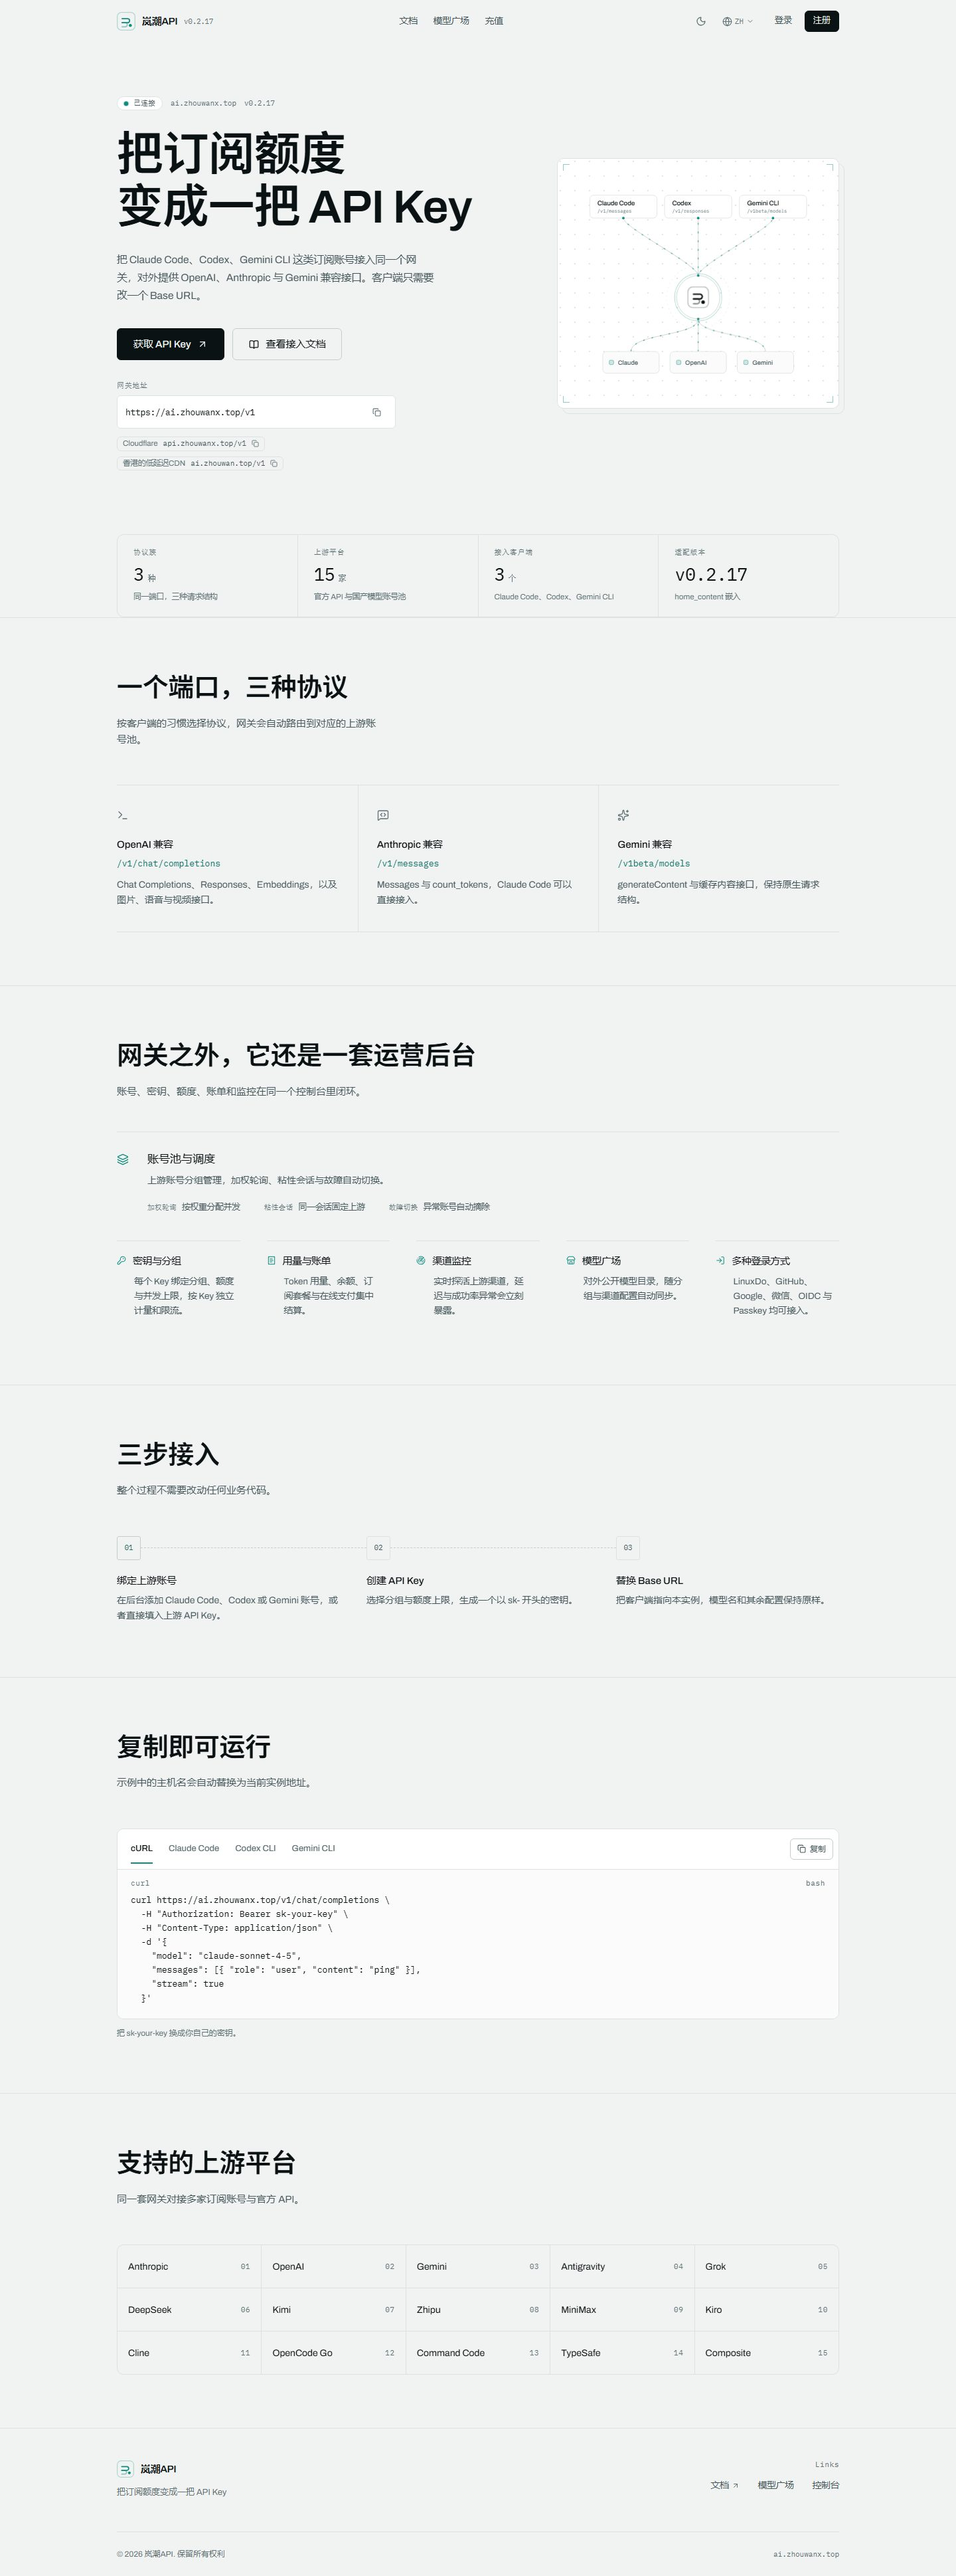
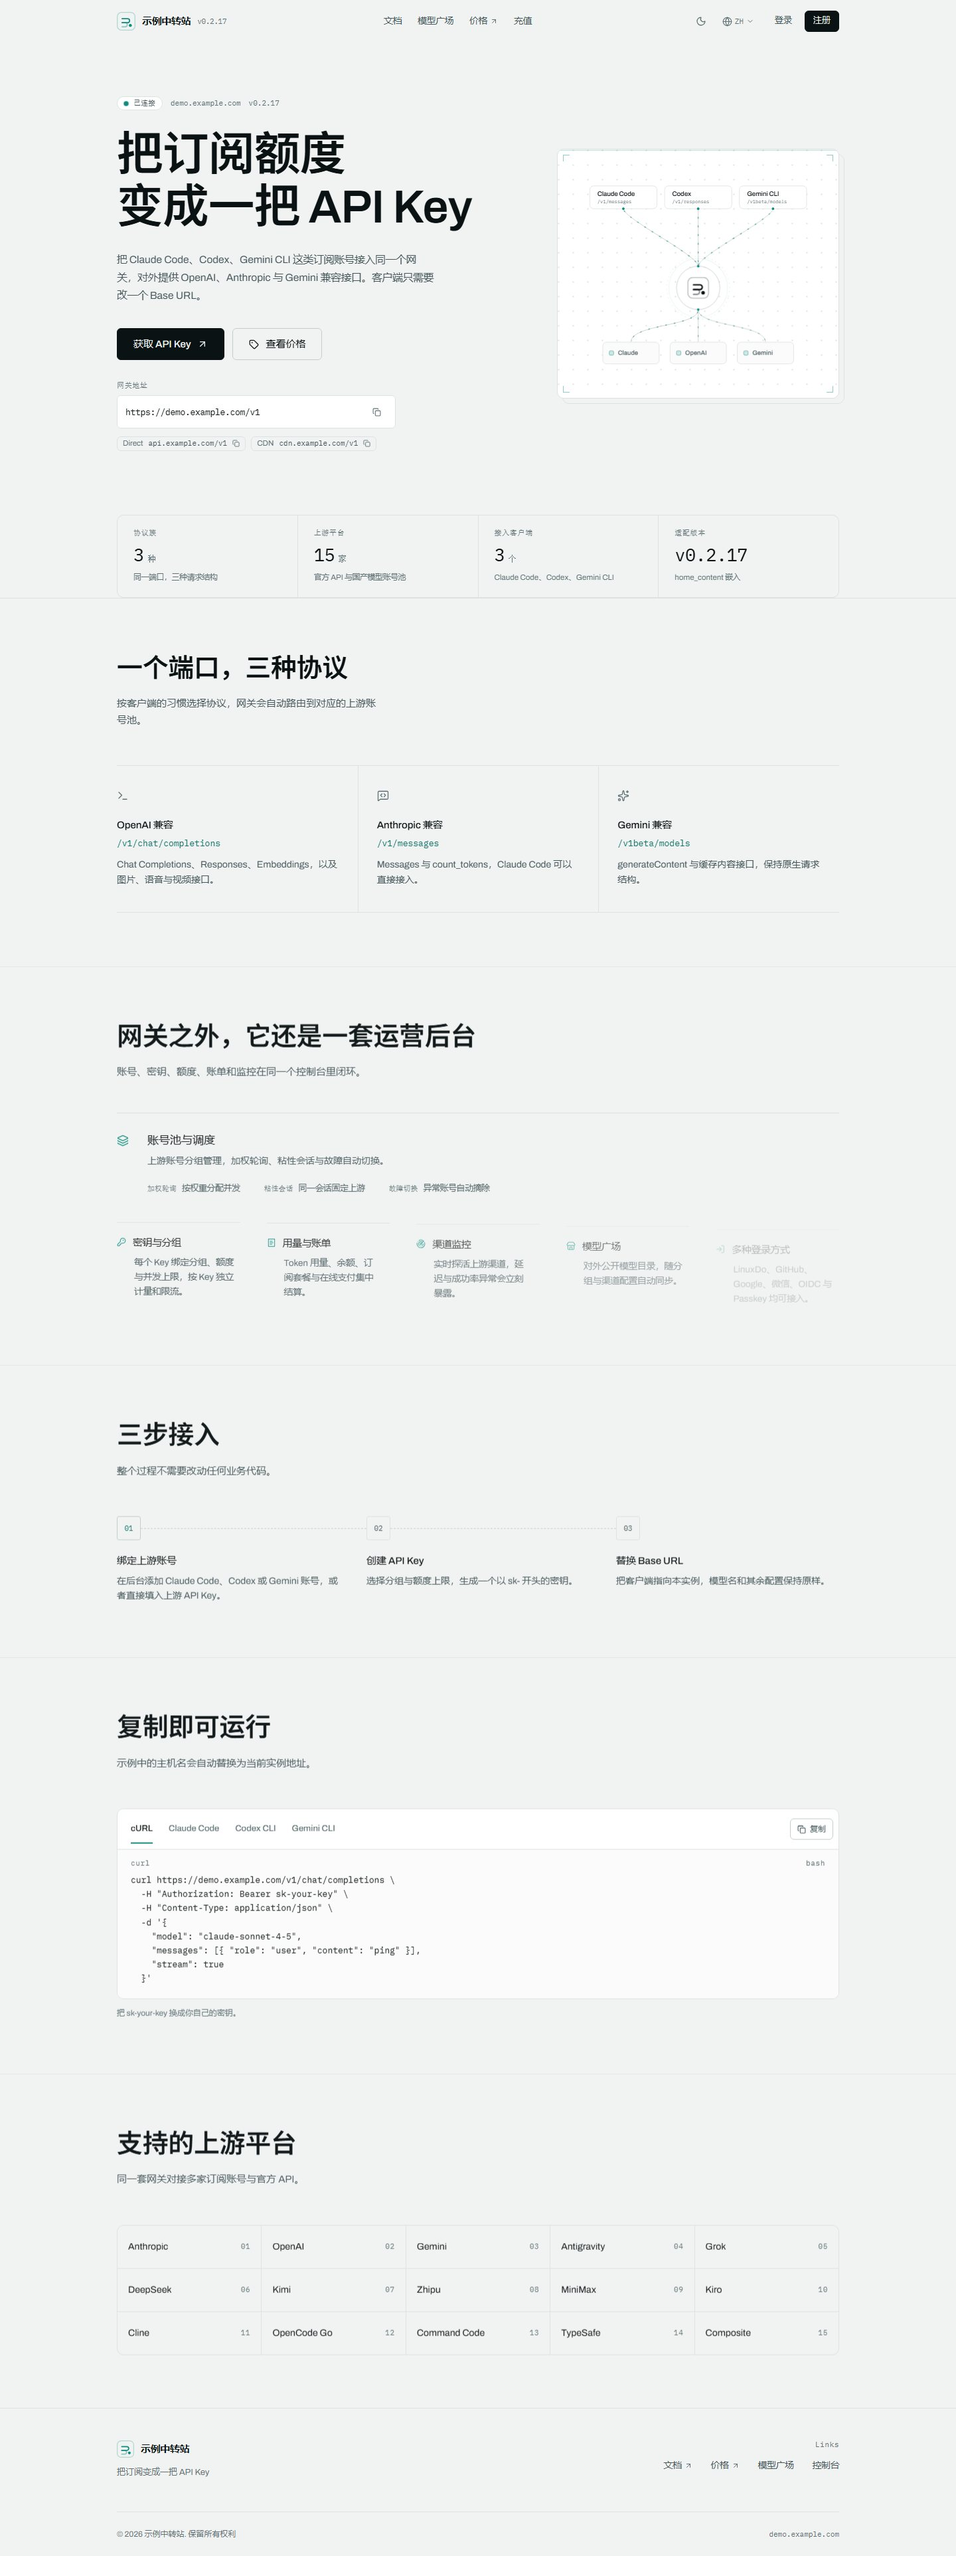
feat(home): point the hero and nav at the standalone price sheet
The price sheet is its own deployment (the model plaza project), so 0.2.17
exposes no setting that could point at it: the URL is configuration, not
discovery. VITE_PRICING_URL / ?price= supplies it, defaulting to
https://model.zhouwanx.top/.

- hero secondary action: 查看接入文档 -> 查看价格 (tag icon, opens in a tab)
- nav gains 价格 right after 模型广场, with the same off-site arrow the
  footer already uses; it is pinned rather than gated because it depends on
  no instance data, so it survives preview mode and the pending window
- footer destinations gain the same link (its external detection already
  handles the new origin)

diff --git a/src/components/layout/TopBar.tsx b/src/components/layout/TopBar.tsx
@@ -1,5 +1,5 @@
 import { useEffect, useRef, useState } from 'react'
-import { Check, ChevronDown, Globe, Menu, Moon, Sun, X } from 'lucide-react'
+import { ArrowUpRight, Check, ChevronDown, Globe, Menu, Moon, Sun, X } from 'lucide-react'
 import { ButtonLink, Container, SiteMark, buttonClass } from '../ui'
 import { useInstance } from '../InstanceContext'
 import { useTheme } from '../ThemeContext'
@@ -14,6 +14,8 @@ interface NavItem {
   href: string
   /** Slot reserved while the settings payload is still in flight. */
   pending?: boolean
+  /** A different origin: opens in its own tab instead of navigating the frame. */
+  external?: boolean
 }
 
 /**
@@ -71,6 +73,10 @@ export default function TopBar() {
   if (plaza !== 'hide') {
     nav.push({ key: 'plaza', label: t.nav.plaza, href: links.modelPlaza, pending: plaza === 'pending' })
   }
+  // The price sheet is a separate deployment, so it is pinned rather than gated
+  // on an instance setting. It sits next to the plaza on purpose: both answer
+  // "what does this cost", so they read as one pair.
+  nav.push({ key: 'price', label: t.nav.pricing, href: links.pricing, external: true })
   if (pricing !== 'hide') {
     nav.push({ key: 'topup', label: t.nav.topup, href: links.topup, pending: pricing === 'pending' })
   }
@@ -117,14 +123,23 @@ export default function TopBar() {
               <a
                 key={item.key}
                 href={item.href}
-                target="_top"
+                target={item.external ? '_blank' : '_top'}
+                rel={item.external ? 'noreferrer noopener' : undefined}
                 aria-hidden={item.pending || undefined}
                 className={cn(
-                  'rounded-sm px-2.5 py-1.5 text-[13.5px] text-ink-2 transition-colors duration-150 hover:bg-surface hover:text-ink',
+                  'inline-flex items-center gap-1 rounded-sm px-2.5 py-1.5 text-[13.5px] text-ink-2 transition-colors duration-150 hover:bg-surface hover:text-ink',
                   item.pending && 'invisible',
                 )}
               >
                 {item.label}
+                {item.external ? (
+                  <ArrowUpRight
+                    size={12}
+                    strokeWidth={2}
+                    aria-hidden="true"
+                    className="text-ink-3"
+                  />
+                ) : null}
               </a>
             ))}
           </nav>
@@ -209,10 +224,14 @@ export default function TopBar() {
                 <a
                   key={item.key}
                   href={item.href}
-                  target="_top"
-                  className="border-b border-line py-3 text-[15px] text-ink-2 transition-colors duration-150 hover:text-ink"
+                  target={item.external ? '_blank' : '_top'}
+                  rel={item.external ? 'noreferrer noopener' : undefined}
+                  className="flex items-center gap-1.5 border-b border-line py-3 text-[15px] text-ink-2 transition-colors duration-150 hover:text-ink"
                 >
                   {item.label}
+                  {item.external ? (
+                    <ArrowUpRight size={13} strokeWidth={2} aria-hidden="true" className="text-ink-3" />
+                  ) : null}
                 </a>
               ))}
           </nav>

diff --git a/src/lib/config.ts b/src/lib/config.ts
@@ -28,6 +28,12 @@ export interface HomeConfig {
   docsUrl: string
   repoUrl: string
   contactUrl: string
+  /**
+   * The standalone price sheet. Hardcoded on purpose: it is a separate
+   * deployment (the model plaza project), not a route this page can discover
+   * from the instance — 0.2.17 exposes no setting for it.
+   */
+  pricingUrl: string
   /** When false, no network request is attempted (fully static page). */
   live: boolean
   /**
@@ -38,6 +44,8 @@ export interface HomeConfig {
 }
 
 export const DEFAULT_REPO_URL = 'https://github.com/Wei-Shaw/sub2api'
+/** The price sheet lives in its own deployment; nothing on the instance points at it. */
+export const DEFAULT_PRICING_URL = 'https://model.zhouwanx.top/'
 
 function readQuery(): URLSearchParams {
   try {
@@ -109,6 +117,12 @@ export function resolveConfig(): HomeConfig {
     docsUrl: docsUrl || DEFAULT_REPO_URL,
     repoUrl: first(query.get('repo'), injected?.repoUrl, env.VITE_REPO_URL, DEFAULT_REPO_URL),
     contactUrl: first(query.get('contact'), injected?.contactUrl, env.VITE_CONTACT_URL),
+    pricingUrl: first(
+      query.get('price'),
+      injected?.pricingUrl,
+      env.VITE_PRICING_URL,
+      DEFAULT_PRICING_URL,
+    ),
     live: query.get('live') === '0' ? false : (injected?.live ?? true),
     showPricing:
       first(query.get('pricing'), env.VITE_SHOW_PRICING).toLowerCase() === 'always'

diff --git a/src/i18n/ja.ts b/src/i18n/ja.ts
@@ -8,6 +8,7 @@ export const ja: Dict = {
   nav: {
     docs: 'ドキュメント',
     plaza: 'モデル',
+    pricing: '料金',
     topup: 'チャージ',
     login: 'ログイン',
     register: '新規登録',
@@ -21,7 +22,7 @@ export const ja: Dict = {
     titleLines: ['サブスクリプションを、', 'ひとつの API キーに'],
     lead: 'Claude Code、Codex、Gemini CLI などのアカウントをひとつのゲートウェイに集約し、OpenAI・Anthropic・Gemini 互換の API として提供します。クライアント側の変更はベース URL だけです。',
     ctaPrimary: 'API キーを取得',
-    ctaSecondary: 'ドキュメントを読む',
+    ctaSecondary: '料金を見る',
     statusConnecting: 'インスタンスを検出中',
     statusLive: '接続済み',
     statusDetected: 'インスタンス検出済み',

diff --git a/src/components/sections/Hero.tsx b/src/components/sections/Hero.tsx
@@ -1,4 +1,4 @@
-import { ArrowUpRight, BookOpen } from 'lucide-react'
+import { ArrowUpRight, Tag } from 'lucide-react'
 import { ButtonLink, Container, CopyChip, CopyField } from '../ui'
 import { StatusDot } from '../ui'
 import { useInstance } from '../InstanceContext'
@@ -146,10 +146,10 @@ export default function Hero() {
                 {primaryLabel}
               </ButtonLink>
               <ButtonLink
-                href={links.docs}
+                href={links.pricing}
                 size="lg"
                 variant="secondary"
-                icon={<BookOpen size={15} strokeWidth={2} aria-hidden="true" />}
+                icon={<Tag size={15} strokeWidth={2} aria-hidden="true" />}
               >
                 {t.hero.ctaSecondary}
               </ButtonLink>

diff --git a/src/lib/instance.ts b/src/lib/instance.ts
@@ -109,6 +109,8 @@ export interface InstanceLinks {
   modelPlaza: string
   docs: string
   topup: string
+  /** The standalone price sheet — a different origin, not an instance route. */
+  pricing: string
   /** True when the docs link leaves the instance (settings.doc_url or the repo). */
   docsExternal: boolean
 }
@@ -123,6 +125,7 @@ export function buildLinks(
   base: string,
   settings: PublicSettings | null,
   docsFallback: string,
+  pricingUrl: string,
 ): InstanceLinks {
   const root = base || ''
   const docUrl = settings?.doc_url?.trim()
@@ -136,6 +139,7 @@ export function buildLinks(
     docs: docUrl || docsFallback,
     docsExternal: /^https?:/i.test(docUrl || docsFallback),
     topup: purchaseUrl || `${root}/purchase`,
+    pricing: pricingUrl,
   }
 }
 

diff --git a/src/i18n/zh.ts b/src/i18n/zh.ts
@@ -6,6 +6,7 @@ export const zh = {
   nav: {
     docs: '文档',
     plaza: '模型广场',
+    pricing: '价格',
     topup: '充值',
     login: '登录',
     register: '注册',
@@ -20,7 +21,7 @@ export const zh = {
     titleLines: ['把订阅额度', '变成一把 API Key'],
     lead: '把 Claude Code、Codex、Gemini CLI 这类订阅账号接入同一个网关，对外提供 OpenAI、Anthropic 与 Gemini 兼容接口。客户端只需要改一个 Base URL。',
     ctaPrimary: '获取 API Key',
-    ctaSecondary: '查看接入文档',
+    ctaSecondary: '查看价格',
     statusConnecting: '正在识别实例',
     statusLive: '已连接',
     statusDetected: '已识别实例',

diff --git a/src/i18n/en.ts b/src/i18n/en.ts
@@ -8,6 +8,7 @@ export const en: Dict = {
   nav: {
     docs: 'Docs',
     plaza: 'Models',
+    pricing: 'Pricing',
     topup: 'Top up',
     login: 'Sign in',
     register: 'Sign up',
@@ -21,7 +22,7 @@ export const en: Dict = {
     titleLines: ['Turn a subscription', 'into an API key'],
     lead: 'Bring Claude Code, Codex and Gemini CLI accounts into one gateway that speaks OpenAI, Anthropic and Gemini. Clients only change a base URL.',
     ctaPrimary: 'Get an API key',
-    ctaSecondary: 'Read the docs',
+    ctaSecondary: 'View pricing',
     statusConnecting: 'Detecting instance',
     statusLive: 'Connected',
     statusDetected: 'Instance detected',

diff --git a/src/App.tsx b/src/App.tsx
@@ -102,7 +102,10 @@ export default function App() {
     }
   }, [base, config.live])
 
-  const links = useMemo(() => buildLinks(base, settings, config.docsUrl), [base, settings, config.docsUrl])
+  const links = useMemo(
+    () => buildLinks(base, settings, config.docsUrl, config.pricingUrl),
+    [base, settings, config.docsUrl, config.pricingUrl],
+  )
   const logo = useMemo(() => resolveSiteLogo(settings, base), [settings, base])
 
   const instance = useMemo<InstanceState>(

diff --git a/src/vite-env.d.ts b/src/vite-env.d.ts
@@ -6,6 +6,7 @@ interface ImportMetaEnv {
   readonly VITE_DOCS_URL?: string
   readonly VITE_REPO_URL?: string
   readonly VITE_CONTACT_URL?: string
+  readonly VITE_PRICING_URL?: string
 }
 
 interface ImportMeta {
@@ -22,6 +23,7 @@ interface Window {
     docsUrl: string
     repoUrl: string
     contactUrl: string
+    pricingUrl: string
     live: boolean
   }>
 }

diff --git a/src/components/layout/Footer.tsx b/src/components/layout/Footer.tsx
@@ -19,6 +19,7 @@ export default function Footer() {
 
   const destinations = [
     { key: 'docs', label: t.nav.docs, href: links.docs },
+    { key: 'pricing', label: t.nav.pricing, href: links.pricing },
     ...(settings?.model_plaza_enabled !== false
       ? [{ key: 'plaza', label: t.nav.plaza, href: links.modelPlaza }]
       : []),

diff --git a/README.md b/README.md
@@ -203,6 +203,7 @@ cors:
 | `?api=` | 实例 origin | 覆盖自动推导的实例地址 |
 | `?live=0` | `0` | 关闭所有网络请求，纯静态渲染 |
 | `?pricing=` | `auto` / `always` | 「充值」入口是否跟随实例的 `payment_enabled` |
+| `?price=` | 绝对 URL | 覆盖价格页地址 |
 | `?site=` | 任意文本 | 兜底站点名，冷启动首帧就用它，避免先显示通用名 |
 
 例：
@@ -225,6 +226,7 @@ https://your-home.vercel.app/?theme=dark&lang=zh
 | `VITE_DOCS_URL` | 文档地址；0.2.17 没有 `/docs` 路由，留空则回退到仓库地址 |
 | `VITE_REPO_URL` | 仓库地址；`VITE_DOCS_URL` 留空时「查看接入文档」回退到这里 |
 | `VITE_CONTACT_URL` | 联系方式地址 |
+| `VITE_PRICING_URL` | 价格页地址，默认 `https://model.zhouwanx.top/`。它是独立部署的价目表，实例上没有对应路由 |
 | `VITE_SHOW_PRICING` | `auto`（默认）跟随实例 `payment_enabled`；`always` 强制显示「充值」 |
 
 ---
@@ -253,6 +255,7 @@ https://your-home.vercel.app/?theme=dark&lang=zh
 | 三步接入 | 绑定上游账号 → 创建 API Key → 替换 Base URL |
 | 其他接入地址 | `settings.custom_endpoints`，实例配置了几条就列几条；每条都是一枚可点击复制的 chip，复制内容与主地址一致（完整 URL），前面不加小标签。没有配置时不显示这一块 |
 | 首屏规格条：3 种 / 15 家 / 3 个 / v0.2.17 | 协议族数、上游平台数、支持的 CLI 数、`settings.version`。三个计数都取自 `src/data/content.ts` 的 `PROTOCOLS` / `UPSTREAM_PLATFORMS` / `CLIENT_CLIS`，源码里没有裸数字；版本号在「已连接」时是实例真实值。每个数字都带量词和一句说明，避免四个光秃秃的整数并排却读不出在数什么 |
+| 导航与首屏的「价格」 | **不属于实例**：价目表是独立部署（默认 `https://model.zhouwanx.top/`），0.2.17 里没有任何设置项指向它，所以地址硬编码在 `VITE_PRICING_URL` / `?price=`。它是唯一在实例未就绪时也照常显示的入口，因为它不依赖任何实例数据 |
 
 ---
 
